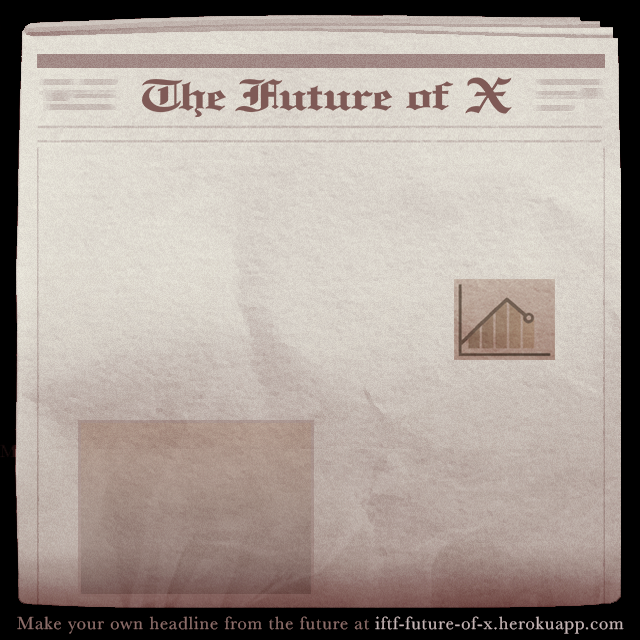
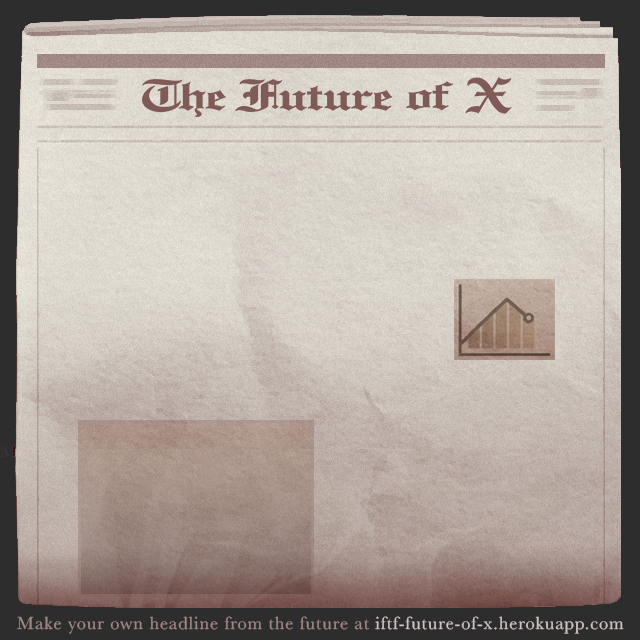
updated newspaper layout

Changed region(s): [[0.0, 0.0, 1.0, 1.0]]

diff --git a/src/StepFive.jsx b/src/StepFive.jsx
@@ -43,14 +43,17 @@ class StepFive extends React.Component {
     picture.src = this.state.imgUrl;
 
     var transparent = new Image();
-    transparent = require("./transparent.png");
+    transparent.src = require("./transparent.png");
 
     backgroundImg.onload = function() {
       context.drawImage(backgroundImg, 0, 0);
       hiddenContext.drawImage(backgroundImg, 0, 0);
 
-      context.drawImage(picture, 80, 420, 245, 175);
-      hiddenContext.drawImage(picture, 80, 420, 245, 175);
+      context.drawImage(picture, 83, 425, 225, 165);
+      hiddenContext.drawImage(picture, 83, 425, 225, 165);
+
+      context.drawImage(transparent, 83, 425, 225, 165);
+      hiddenContext.drawImage(transparent, 83, 425, 225, 165);
 
       self.paintHeadline(context, hiddenContext, title);
       self.paintBody(context, hiddenContext, body);
@@ -70,54 +73,96 @@ class StepFive extends React.Component {
     
     let headlineOne = '';
     let headlineTwo = '';
+    let headlineThree = '';
 
     let headlineOneClosed = false;
     let headlineTwoClosed = false;
+    let headlineThreeClosed = false;
 
     let headlineOneWidth = 0;
     let headlineTwoWidth = 0;
+    let headlineThreeWidth = 0;
 
     if (headlineArray != null) {
-      headlineArray.forEach(headline => {
+      headlineArray.forEach(headlineWord => {
 
         if (!headlineOneClosed) {
-          if (context.measureText(headlineOne + headline).width > 500) {
+          if (context.measureText(headlineOne + headlineWord).width > 600) {
             headlineOneClosed = true;
           } 
           else {
-            headlineOne += headline + ' ';
+            headlineOne += headlineWord + ' ';
             return;
           }
         }
 
         if (!headlineTwoClosed) {
-          if (context.measureText(headlineTwo + headline).width > 500) {
+          if (context.measureText(headlineTwo + headlineWord).width > 600) {
             headlineTwoClosed = true;
           } 
           else {
-            headlineTwo += headline + ' ';
+            headlineTwo += headlineWord + ' ';
             return;
           }
-        }
+        } 
 
+        if (!headlineThreeClosed) {
+          if (context.measureText(headlineThree + headlineWord).width > 600) {
+            headlineThreeClosed = true;
+          } 
+          else {
+            headlineThree += headlineWord + ' ';
+            return;
+          }
+        } 
       });
     }
+    if (headlineOne != '' && headlineTwo != '' && headlineThree != '') {
+      context.font = "40px Futura";
+      hiddenContext.font = "40px Futura";
+      context.fillStyle = "#4c4343";
+      hiddenContext.fillStyle = "#4c4343";
 
-    headlineOneWidth = context.measureText(headlineOne).width;
-    headlineTwoWidth = context.measureText(headlineTwo).width;        
+      headlineOneWidth = context.measureText(headlineOne).width;
+      headlineTwoWidth = context.measureText(headlineTwo).width;        
+      headlineThreeWidth = context.measureText(headlineThree).width;        
+  
+      let headlineOneOffset = (-1*(headlineOneWidth - 500)/2)+80
+      let headlineTwoOffset = (-1*(headlineTwoWidth - 500)/2)+80
+      let headlineThreeOffset = (-1*(headlineThreeWidth - 500)/2)+80
 
-    let headlineOneOffset = (-1*(headlineOneWidth - 500)/2)+80
-    let headlineTwoOffset = (-1*(headlineTwoWidth - 500)/2)+80
+      context.fillText(headlineOne, headlineOneOffset, 180);
+      hiddenContext.fillText(headlineOne, headlineOneOffset, 180);
+      context.fillText(headlineTwo, headlineTwoOffset, 220);
+      hiddenContext.fillText(headlineTwo, headlineTwoOffset, 220);
+      context.fillText(headlineThree, headlineThreeOffset, 260);
+      hiddenContext.fillText(headlineThree, headlineThreeOffset, 260);
 
-    if (headlineOne != '' && headlineTwo != '') {
-      context.fillText(headlineOne, headlineOneOffset, 195);
-      hiddenContext.fillText(headlineOne, headlineOneOffset, 195);
-      context.fillText(headlineTwo, headlineTwoOffset, 245);
-      hiddenContext.fillText(headlineTwo, headlineTwoOffset, 245);
-    }
-    else if (headlineOne != '' ) {
-      context.fillText(headlineOne, headlineOneOffset, 220);
-      hiddenContext.fillText(headlineOne, headlineOneOffset, 220);
+    } else {
+      context.font = "48px Futura";
+      hiddenContext.font = "48px Futura";
+      context.fillStyle = "#4c4343";
+      hiddenContext.fillStyle = "#4c4343";
+    
+      headlineOneWidth = context.measureText(headlineOne).width;
+      headlineTwoWidth = context.measureText(headlineTwo).width;        
+      headlineThreeWidth = context.measureText(headlineThree).width;        
+  
+      let headlineOneOffset = (-1*(headlineOneWidth - 500)/2)+80
+      let headlineTwoOffset = (-1*(headlineTwoWidth - 500)/2)+80
+      let headlineThreeOffset = (-1*(headlineThreeWidth - 500)/2)+80
+  
+
+      if (headlineOne != '' && headlineTwo != '') {
+        context.fillText(headlineOne, headlineOneOffset, 195);
+        hiddenContext.fillText(headlineOne, headlineOneOffset, 195);
+        context.fillText(headlineTwo, headlineTwoOffset, 245);
+        hiddenContext.fillText(headlineTwo, headlineTwoOffset, 245);
+      }
+      else if (headlineOne != '' ) {
+        context.fillText(headlineOne, headlineOneOffset, 220);
+        hiddenContext.fillText(headlineOne, headlineOneOffset, 220);
+      }  
     }
   }
 
@@ -151,8 +196,8 @@ class StepFive extends React.Component {
       bodyArray = body.split(" ");
     }
 
-    context.fillStyle = "#4c4343";
-    hiddenContext.fillStyle = "#4c4343";
+    context.fillStyle = "#292424";
+    hiddenContext.fillStyle = "#292424";
 
     context.font = "54px Courier";
     hiddenContext.font = "54px Courier";
@@ -390,9 +435,13 @@ class StepFive extends React.Component {
   }
   updateImage = (e) =>{
     let newImg = document.getElementById("imageUrl").value;
-    this.setState({imgUrl: newImg},()=>{
-      this.paintNewspaper();
-    });    
+    if(newImg.substring(0, 4) == "http"){
+      this.setState({imgUrl: newImg},()=>{
+        this.paintNewspaper();
+      });      
+    } else { 
+      //staticImg?
+    }
   }
 
   downloadCanvas() {
@@ -459,6 +508,10 @@ class StepFive extends React.Component {
     let articleText = this.props.get("articleText");
     let articleType = this.props.get("articleType");
     let imgUrl = this.props.get("chosenSignalImg");
+
+    if(imgUrl == ""){
+      imgUrl = staticImg;
+    }
     
     if(!(articleType == "growth" || articleType == "collapse" || articleType == "constraint" || articleType == "transformation")){
       articleType = "growth";
@@ -515,7 +568,7 @@ class StepFive extends React.Component {
 
       <div className="maintext">
         <p>Front page news from the future can bring forecasts to life! Headlines of the future distill complex foresight into crisp, evocative, sharable messages, in a format that is accessible to nearly everyone. </p>
-        <p>On this final step, we put everything together and into one big graphic. Edit the text as you see fit. When you're done, you can save the image to your device.</p>    
+        <p>On this final step, we put everything together and into one big graphic. <b>Edit the text as you see fit.</b> You can also paste in a new image url, and change the graph using the drop down options. When you're done, you can save the image to your device.</p>    
       </div>
     
       <div className="reminderboxcentered">
